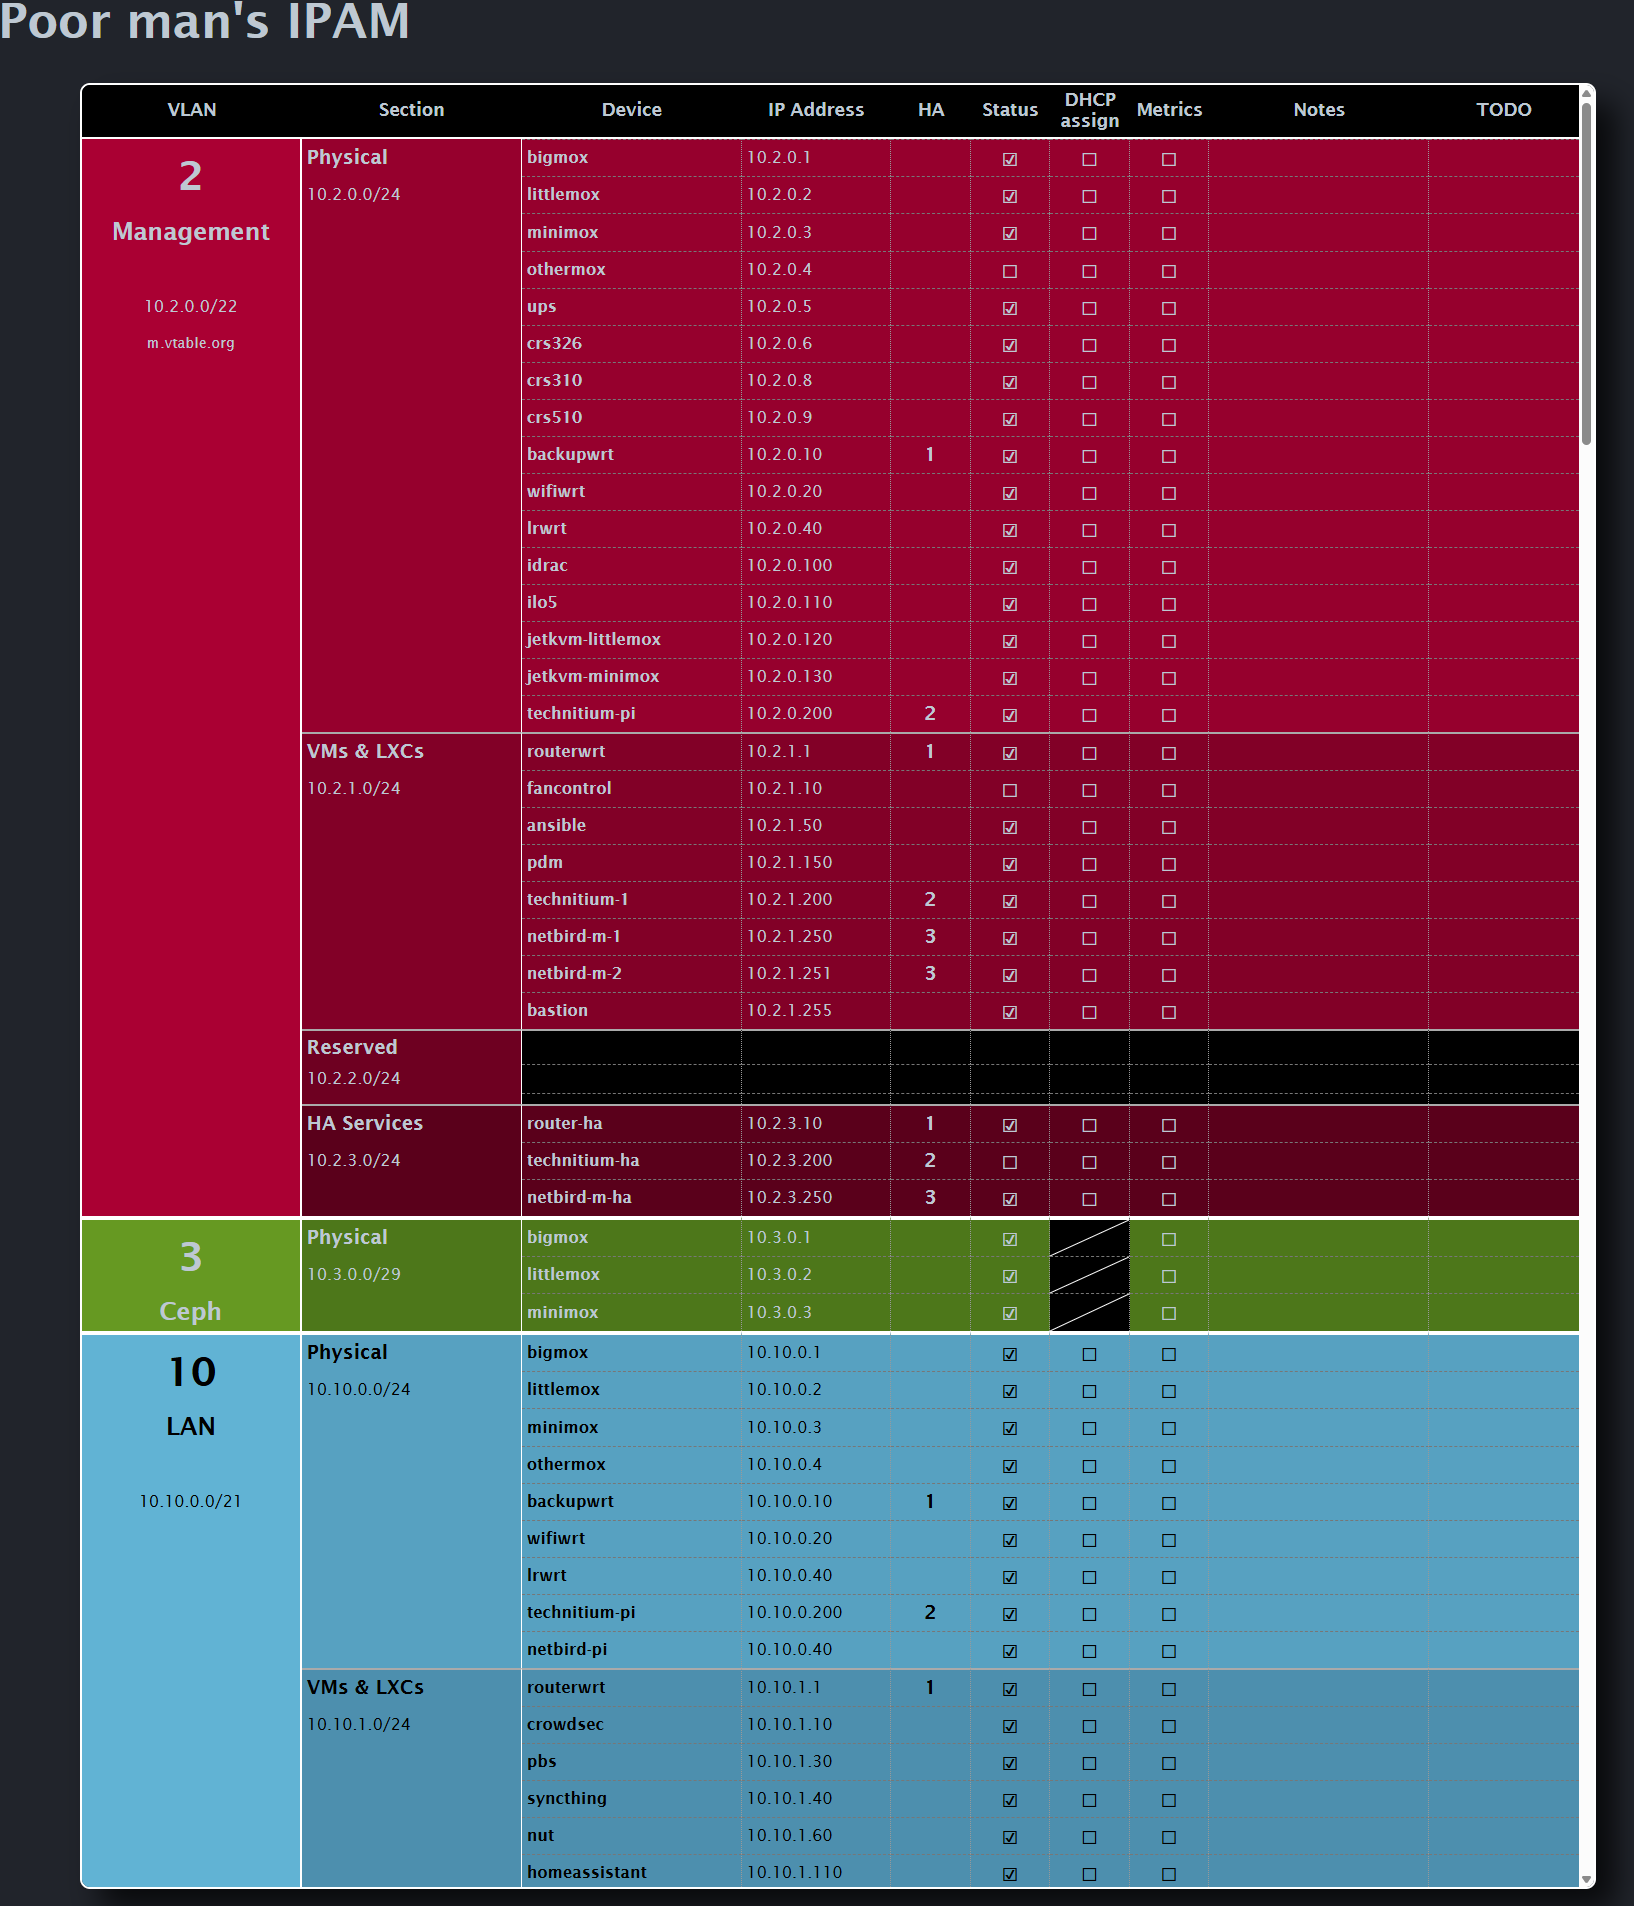
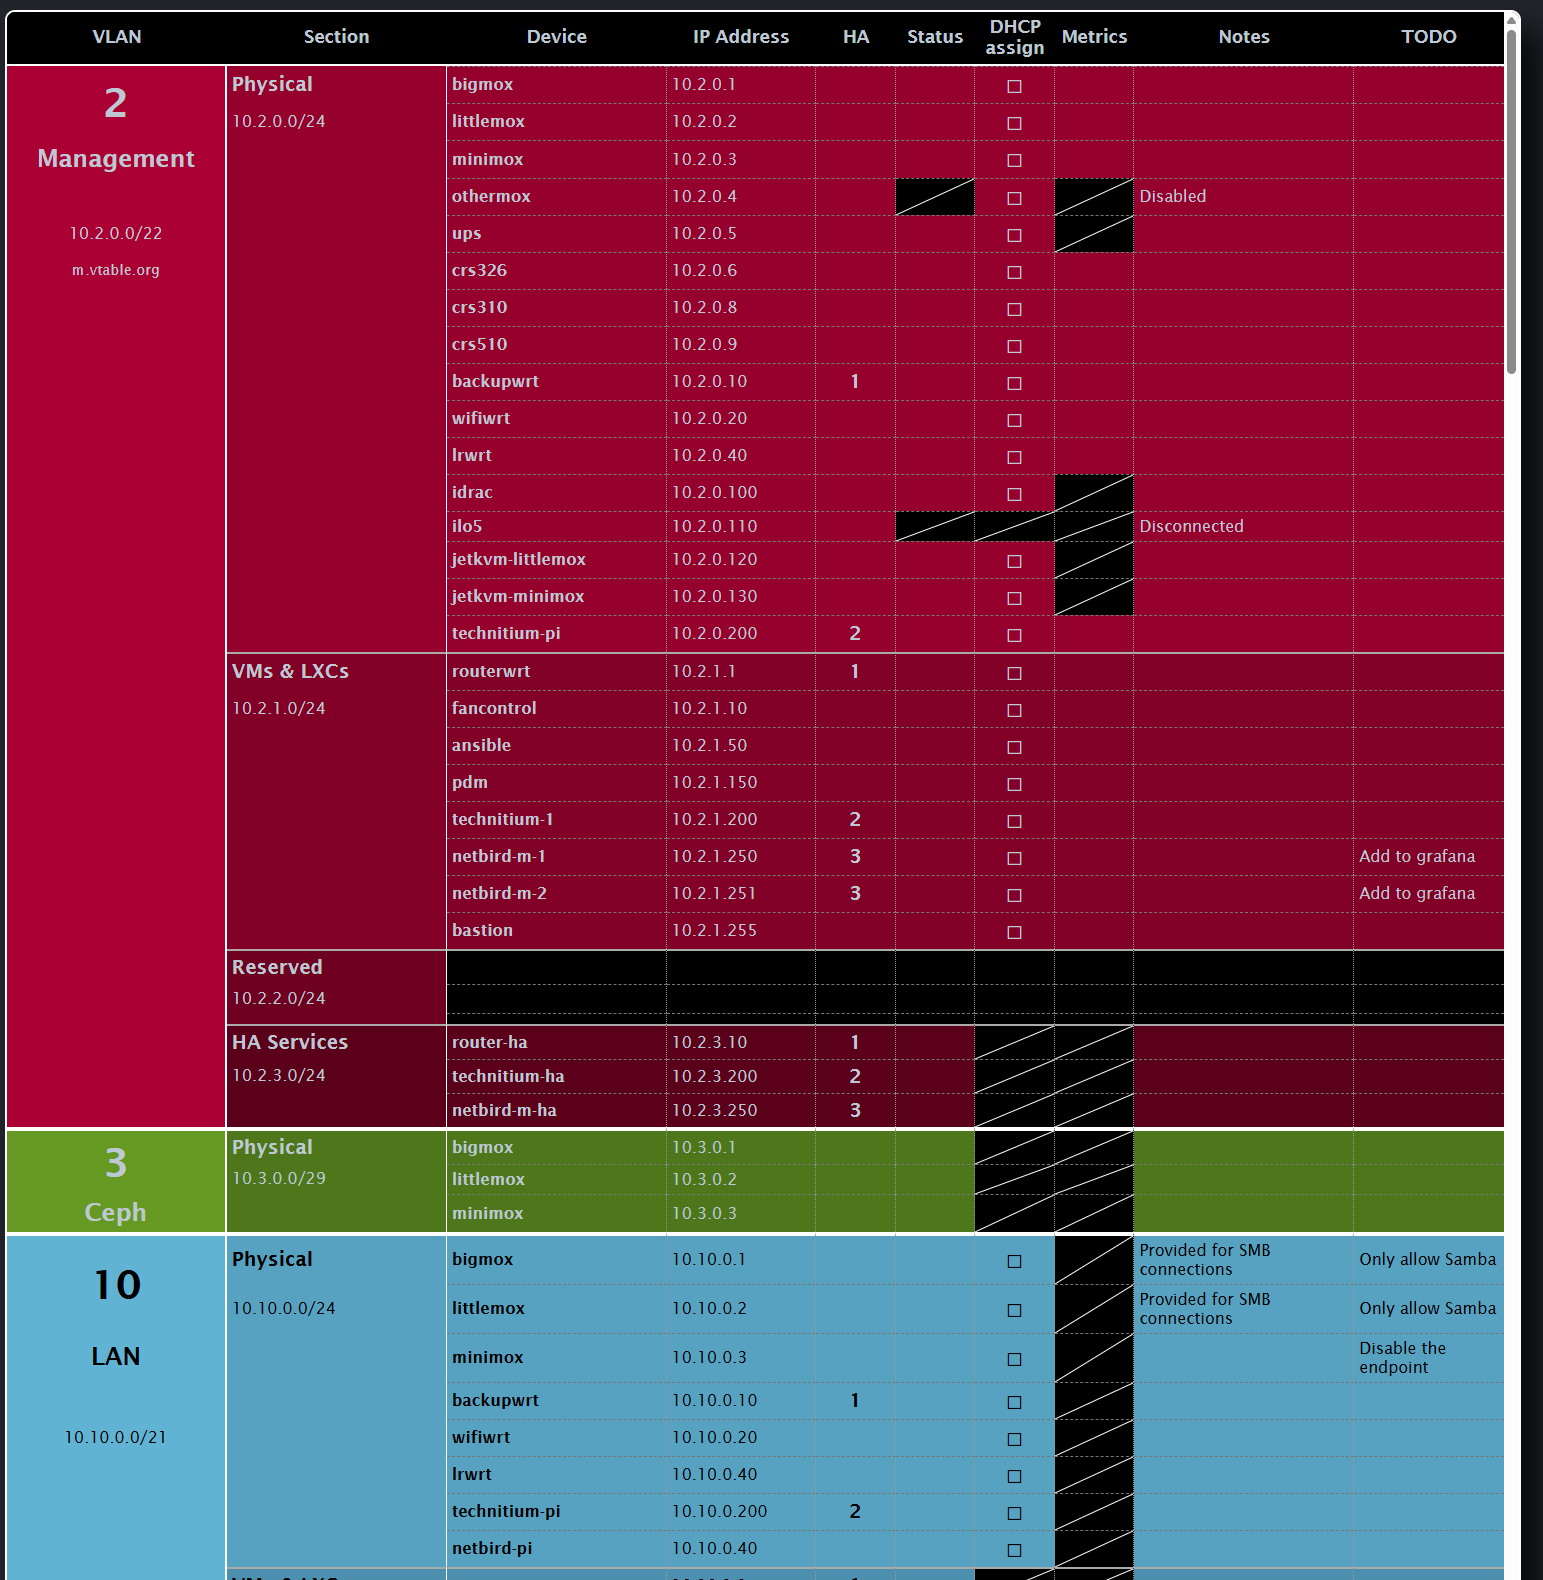
Changed the screenshot; changed column sizes and texts; verified that missing fields are acceptable

diff --git a/vtable.pmipam/static/style.css b/vtable.pmipam/static/style.css
@@ -44,11 +44,11 @@ th {
 }
 
 table th:nth-child(1) {
-    width: 15%;
+    width: 13%;
 }
 
 table th:nth-child(2) {
-    width: 15%;
+    width: 12%;
 }
 
 table th:nth-child(3) {
@@ -80,7 +80,7 @@ table th:nth-child(9) {
 }
 
 table th:nth-child(10) {
-    width: 10%;
+    width: 15%;
 }
 
 td, th {
@@ -184,9 +184,13 @@ td.col8 {
 
 td.col9 {
     border-right: #999 1px dotted;
+    font-size: 0.7em;
+    font-stretch: 80%;
 }
 
 td.col10 {
+    font-size: 0.7em;
+    font-stretch: 80%;
 }
 
 td.disabled {

diff --git a/vtable.pmipam/Models/Host.cs b/vtable.pmipam/Models/Host.cs
@@ -9,13 +9,21 @@ namespace Vtable.PmIpam.Models
         public int? HA { get; set; }
         public IPAddress IP { get; set; }
         [YamlMember(Alias = "status")]
-        public Status? Status { get; set; }
-        public Status? Dhcp { get; set; }
-        public Status? Metrics { get; set; }
+        public Status? Status { get; set; } = Models.Status.Enabled;
+        public Status? Dhcp { get; set; } = Models.Status.Enabled;
+        public Status? Metrics { get; set; } = Models.Status.Enabled;
         public string Notes { get; set; }
         public string Todo { get; set; }
     }
 
 
-    public class NullHost : Host { }
+    public class NullHost : Host
+    {
+        public NullHost()
+        {
+            this.Status = Models.Status.Null;
+            this.Dhcp = Models.Status.Null;
+            this.Metrics = Models.Status.Null;
+        }
+    }
 }

diff --git a/vtable.pmipam/Models/Enums.cs b/vtable.pmipam/Models/Enums.cs
@@ -2,8 +2,9 @@
 {
     public enum Status
     {
+        Null = -1,
         Disabled = 0,
         Enabled = 1,
-        NA = -1
+        NA = 2
     }
 }
